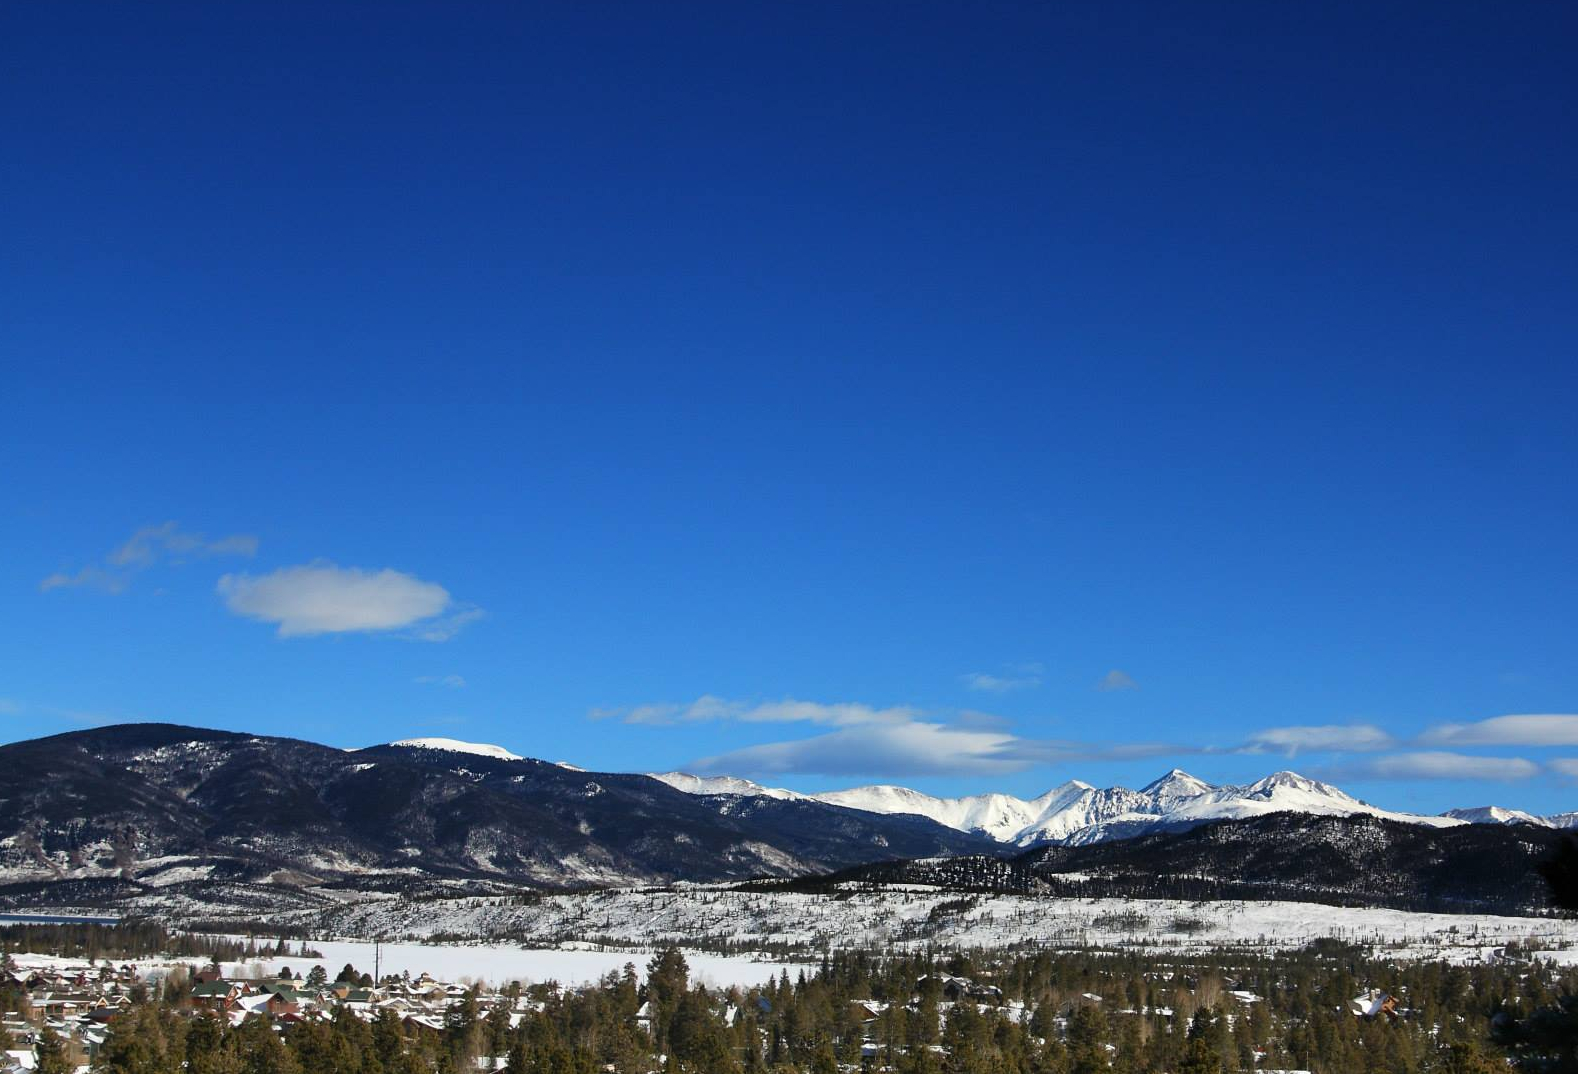
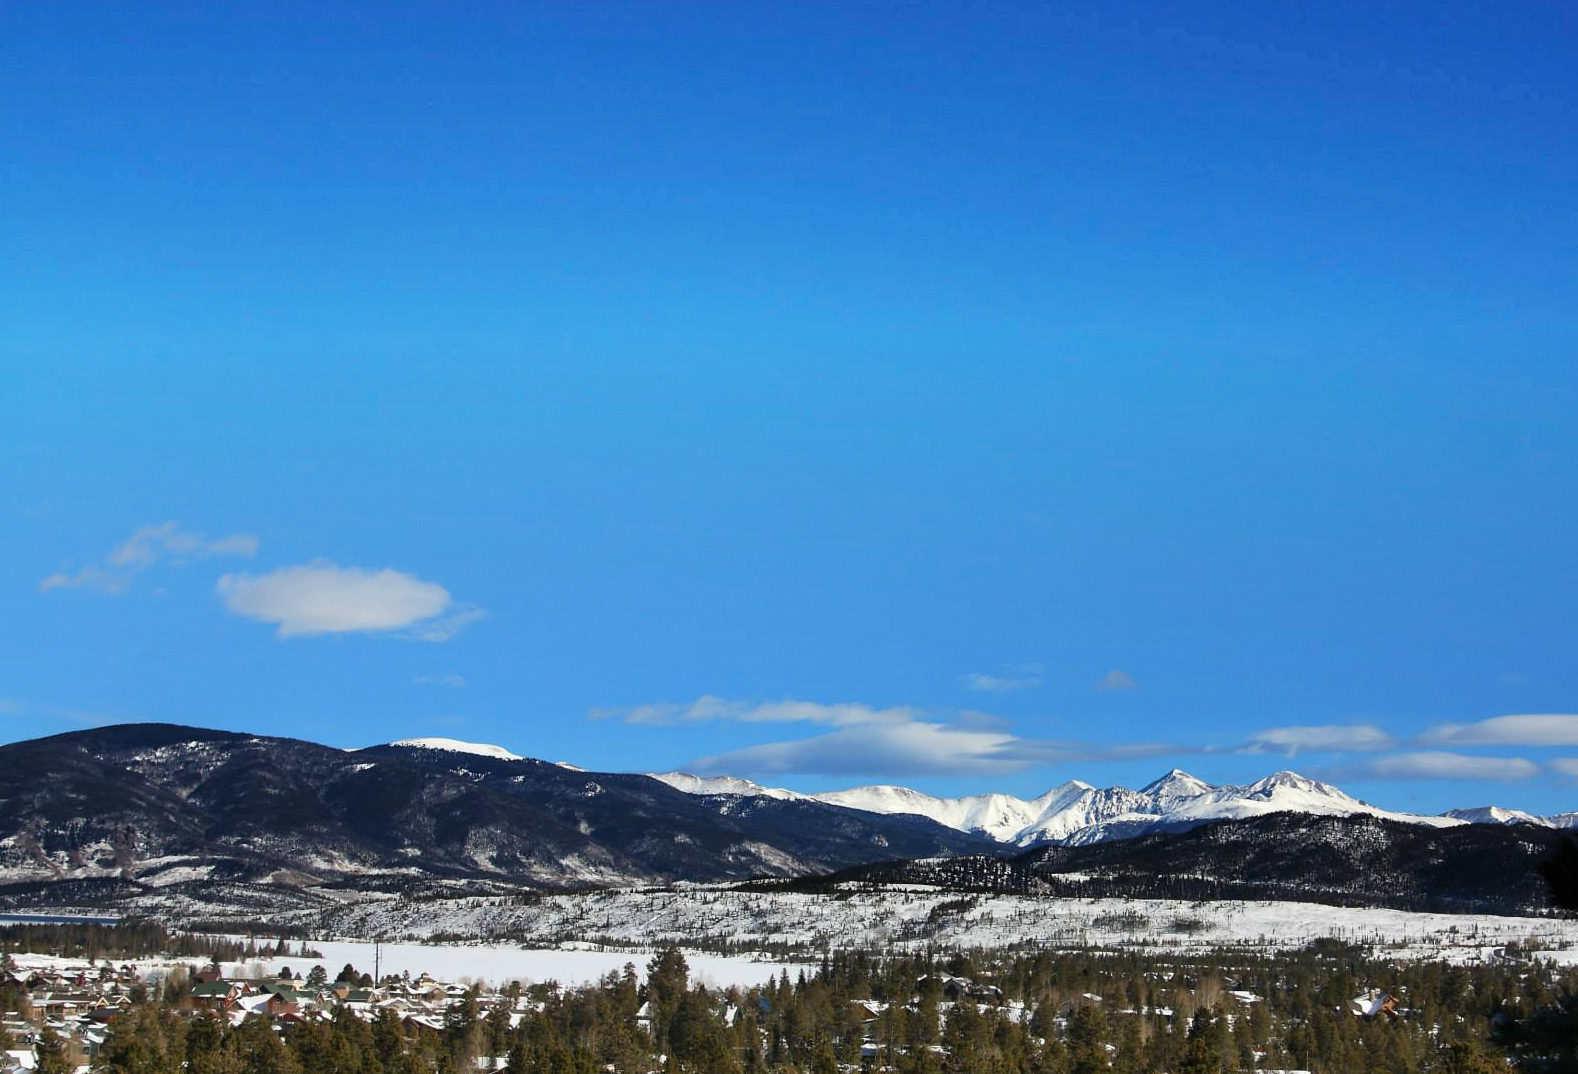
Both  blog list and blog post have same background

diff --git a/source/stylesheets/blog-post.css b/source/stylesheets/blog-post.css
@@ -1,5 +1,5 @@
 body{
-  background-image: url('../images/mountains-winter-2.jpg');
+  background-image: url('../images/mountains-cropped.jpg');
   background-size: 100% 100%;
   
 }
